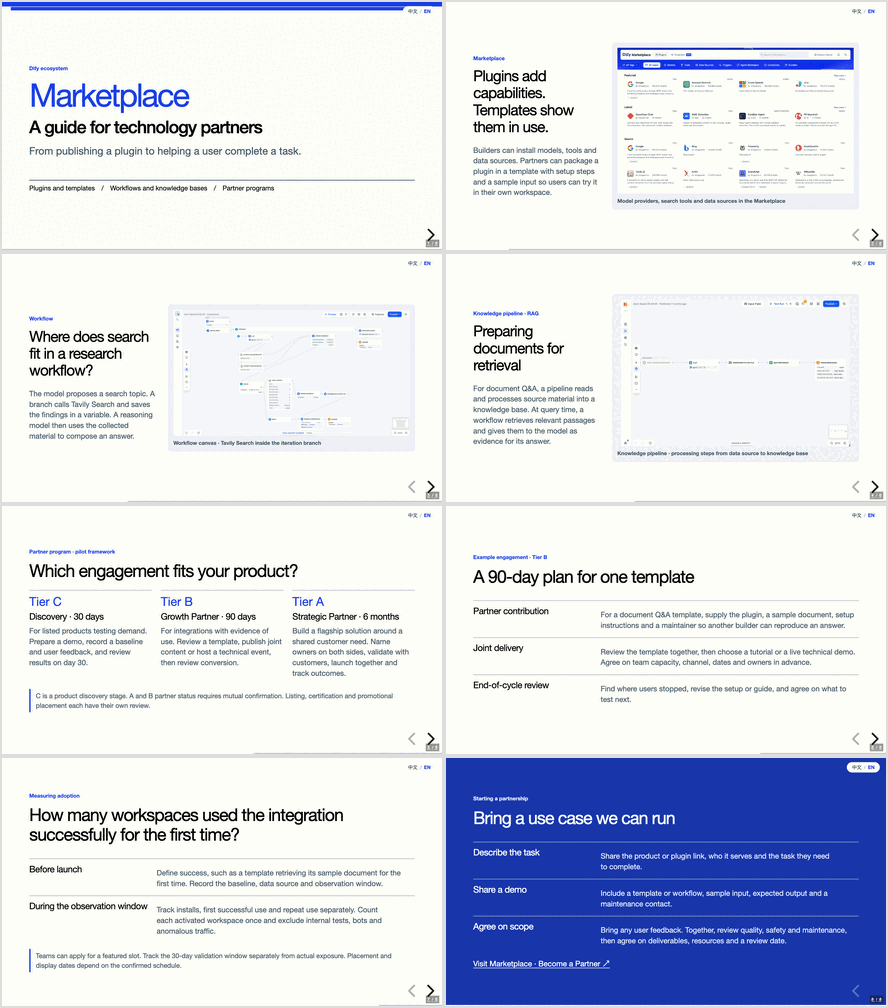
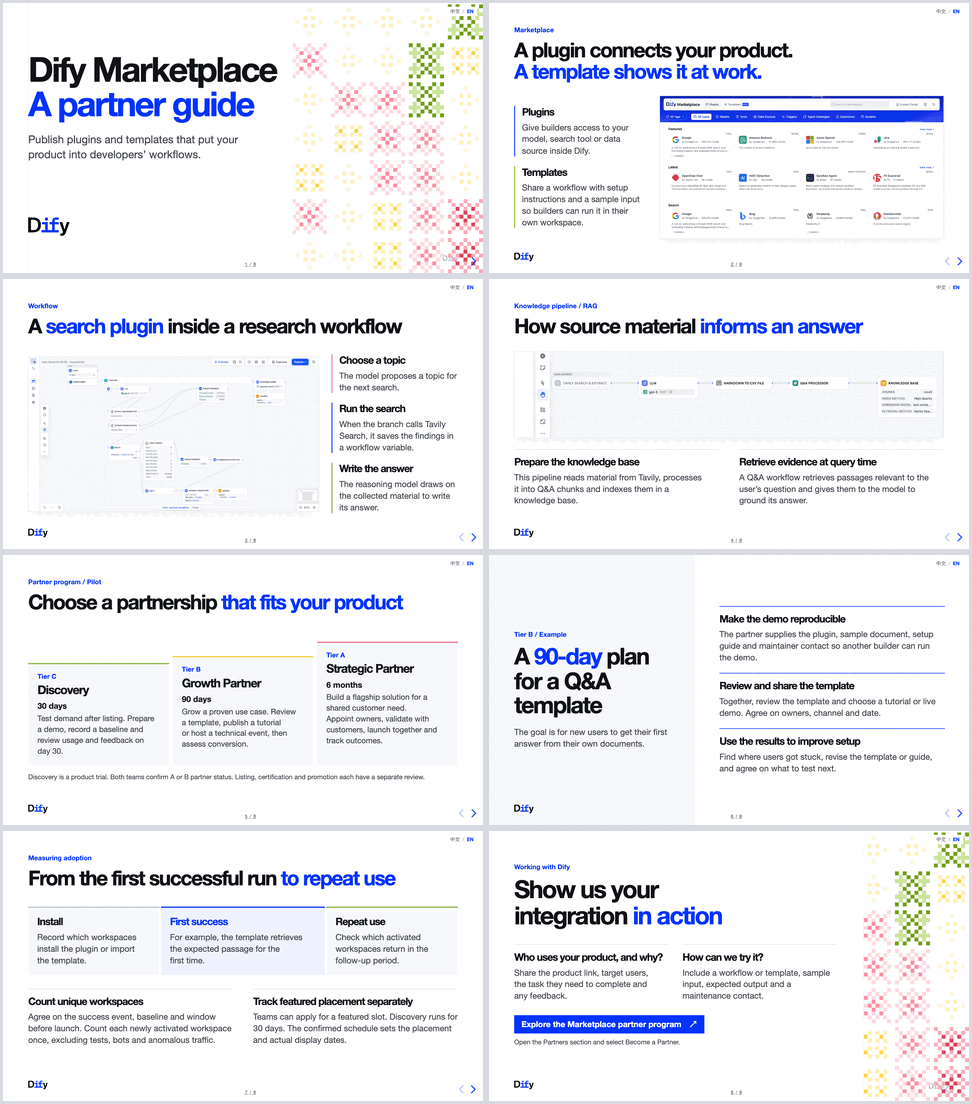
Restyle Marketplace guide to match the Singapore presentation

diff --git a/marketplace-partners/index_en.html b/marketplace-partners/index_en.html
@@ -12,37 +12,53 @@
 <body>
 <nav aria-label="Language"><a href="index.html" lang="zh-CN">中文</a><span>/</span><a href="index_en.html" lang="en" aria-current="page">EN</a></nav>
 <div class="reveal"><div class="slides">
-<section data-slide-id="cover" class="cover" data-background-color="#fafaf6">
-<article><p class="kicker">Dify ecosystem</p><h1>Marketplace</h1><h2>A guide for technology partners</h2><p class="lead">From publishing a plugin to helping a user complete a task.</p><footer>Plugins and templates　/　Workflows and knowledge bases　/　Partner programs</footer></article>
-<aside class="notes">For model, tool and data providers, and teams building solutions with Dify.</aside>
+<section data-slide-id="cover">
+  <article>
+<div class="weave" aria-hidden="true"></div><div class="cover-text"><h1>Dify Marketplace<br><em>A partner guide</em></h1><p>Publish plugins and templates that put your product into developers’ workflows.</p></div><img class="cover-logo" src="../assets/logo.svg" alt="Dify">
+  </article>
+  <aside class="notes">For model, tool and data providers, and teams building solutions with Dify.</aside>
 </section>
-<section data-slide-id="catalog" class="" data-background-color="#fafaf6">
-<article><div class="spread"><div><p class="kicker">Marketplace</p><h2>Plugins add capabilities. Templates show them in use.</h2><p class="">Builders can install models, tools and data sources. Partners can package a plugin in a template with setup steps and a sample input so users can try it in their own workspace.</p></div><figure><img src="../amd-x-dify-hackathon/assets/dify-product-marketplace.webp" alt="Model providers, search tools and data sources in the Marketplace"><figcaption>Model providers, search tools and data sources in the Marketplace</figcaption></figure></div></article>
-<aside class="notes">The AMD workshop shows how to install the Lemonade model provider from the Marketplace and connect it to a local inference server. A template example from the Dify × EdgeOne community showcase turns a child’s name, age and daily events into a bedtime story. Dify generates the story and EdgeOne Pages hosts the interface.</aside>
+<section data-slide-id="catalog">
+  <article>
+<header><p class="label">Marketplace</p><h2>A plugin connects your product.<br><em>A template shows it at work.</em></h2></header><div class="catalog-body"><div class="catalog-copy"><div class="item"><h3>Plugins</h3><p>Give builders access to your model, search tool or data source inside Dify.</p></div><div class="item"><h3>Templates</h3><p>Share a workflow with setup instructions and a sample input so builders can run it in their own workspace.</p></div></div><figure class="shot marketplace"><img src="../amd-x-dify-hackathon/assets/dify-product-marketplace.webp" alt="Dify Marketplace plugin catalog"></figure></div>
+  </article>
+  <aside class="notes">The AMD workshop shows how to install the Lemonade model provider from the Marketplace and connect it to a local inference server. A template example from the Dify × EdgeOne community showcase turns a child’s name, age and daily events into a bedtime story. Dify generates the story and EdgeOne Pages hosts the interface.</aside>
 </section>
-<section data-slide-id="workflow" class="" data-background-color="#fafaf6">
-<article><div class="spread"><div><p class="kicker">Workflow</p><h2>Where does search fit in a research workflow?</h2><p class="">The model proposes a search topic. A branch calls Tavily Search and saves the findings in a variable. A reasoning model then uses the collected material to compose an answer.</p></div><figure><img src="../amd-x-dify-hackathon/assets/dify-product-workflow.webp" alt="Workflow canvas · Tavily Search inside the iteration branch"><figcaption>Workflow canvas · Tavily Search inside the iteration branch</figcaption></figure></div></article>
-<aside class="notes">Trace the IF/ELSE branch through Tavily Search to the variable assignment. Show the input to the tool and where its output goes.</aside>
+<section data-slide-id="workflow">
+  <article>
+<header><p class="label">Workflow</p><h2>A <em>search plugin</em> inside a research workflow</h2></header><div class="workflow-body"><figure class="shot workflow"><img src="../amd-x-dify-hackathon/assets/dify-product-workflow.webp" alt="Workflow canvas with Tavily Search inside an iteration branch"></figure><div class="workflow-copy"><div class="item"><h3>Choose a topic</h3><p>The model proposes a topic for the next search.</p></div><div class="item"><h3>Run the search</h3><p>When the branch calls Tavily Search, it saves the findings in a workflow variable.</p></div><div class="item"><h3>Write the answer</h3><p>The reasoning model draws on the collected material to write its answer.</p></div></div></div>
+  </article>
+  <aside class="notes">Trace the IF/ELSE branch through Tavily Search to the variable assignment. Show the input to the tool and where its output goes.</aside>
 </section>
-<section data-slide-id="rag" class="" data-background-color="#fafaf6">
-<article><div class="spread"><div><p class="kicker">Knowledge pipeline · RAG</p><h2>Preparing documents for retrieval</h2><p class="">For document Q&A, a pipeline reads and processes source material into a knowledge base. At query time, a workflow retrieves relevant passages and gives them to the model as evidence for its answer.</p></div><figure><img src="../amd-x-dify-hackathon/assets/dify-product-knowledge.webp" alt="Knowledge pipeline · processing steps from data source to knowledge base"><figcaption>Knowledge pipeline · processing steps from data source to knowledge base</figcaption></figure></div></article>
-<aside class="notes">A data partner can supply one sample document and a test question, then check whether retrieval returns the supporting passage.</aside>
+<section data-slide-id="rag">
+  <article>
+<header><p class="label">Knowledge pipeline / RAG</p><h2>How source material <em>informs an answer</em></h2></header><figure class="shot knowledge"><img src="../amd-x-dify-hackathon/assets/dify-product-knowledge.webp" alt="Pipeline from the Tavily data source through the Q&A processor to the knowledge base"></figure><div class="duo"><div class="item"><h3>Prepare the knowledge base</h3><p>This pipeline reads material from Tavily, processes it into Q&A chunks and indexes them in a knowledge base.</p></div><div class="item"><h3>Retrieve evidence at query time</h3><p>A Q&A workflow retrieves passages relevant to the user’s question and gives them to the model to ground its answer.</p></div></div>
+  </article>
+  <aside class="notes">A data partner can supply one sample document and a test question, then check whether retrieval returns the supporting passage.</aside>
 </section>
-<section data-slide-id="tiers" class="" data-background-color="#fafaf6">
-<article><p class="kicker">Partner program · pilot framework</p><h2>Which engagement fits your product?</h2><div class="columns"><div><strong>Tier C</strong><h3>Discovery · 30 days</h3><p class="">For listed products testing demand. Prepare a demo, record a baseline and user feedback, and review results on day 30.</p></div><div><strong>Tier B</strong><h3>Growth Partner · 90 days</h3><p class="">For integrations with evidence of use. Review a template, publish joint content or host a technical event, then review conversion.</p></div><div><strong>Tier A</strong><h3>Strategic Partner · 6 months</h3><p class="">Build a flagship solution around a shared customer need. Name owners on both sides, validate with customers, launch together and track outcomes.</p></div></div><p class="note">C is a product discovery stage. A and B partner status requires mutual confirmation. Listing, certification and promotional placement each have their own review.</p></article>
-<aside class="notes">Quality, safety and maintenance ownership are prerequisites. Teams with existing results can be assessed directly for A or B.</aside>
+<section data-slide-id="tiers">
+  <article>
+<header><p class="label">Partner program / Pilot</p><h2>Choose a partnership <em>that fits your product</em></h2></header><div class="tiers"><div class="tier"><div class="tier-id">Tier C</div><h3>Discovery</h3><strong>30 days</strong><p>Test demand after listing. Prepare a demo, record a baseline and review usage and feedback on day 30.</p></div><div class="tier"><div class="tier-id">Tier B</div><h3>Growth Partner</h3><strong>90 days</strong><p>Grow a proven use case. Review a template, publish a tutorial or host a technical event, then assess conversion.</p></div><div class="tier"><div class="tier-id">Tier A</div><h3>Strategic Partner</h3><strong>6 months</strong><p>Build a flagship solution for a shared customer need. Appoint owners, validate with customers, launch together and track outcomes.</p></div></div><p class="fine">Discovery is a product trial. Both teams confirm A or B partner status. Listing, certification and promotion each have a separate review.</p>
+  </article>
+  <aside class="notes">Quality, safety and maintenance ownership are prerequisites. Teams with existing results can be assessed directly for A or B.</aside>
 </section>
-<section data-slide-id="package" class="" data-background-color="#fafaf6">
-<article><p class="kicker">Example engagement · Tier B</p><h2>A 90-day plan for one template</h2><div class="row"><h3>Partner contribution</h3><p class="">For a document Q&A template, supply the plugin, a sample document, setup instructions and a maintainer so another builder can reproduce an answer.</p></div><div class="row"><h3>Joint delivery</h3><p class="">Review the template together, then choose a tutorial or a live technical demo. Agree on team capacity, channel, dates and owners in advance.</p></div><div class="row"><h3>End-of-cycle review</h3><p class="">Find where users stopped, revise the setup or guide, and agree on what to test next.</p></div></article>
-<aside class="notes">This illustrates the pilot growth package. Technical support, promotion dates and resources are agreed for each project.</aside>
+<section data-slide-id="package">
+  <article>
+<div class="split"><div class="panel"><header><p class="label">Tier B / Example</p><h2>A <em>90-day</em> plan<br>for a Q&A template</h2></header><p>The goal is for new users to get their first answer from their own documents.</p></div><div class="steps"><div class="item"><h3>Make the demo reproducible</h3><p>The partner supplies the plugin, sample document, setup guide and maintainer contact so another builder can run the demo.</p></div><div class="item"><h3>Review and share the template</h3><p>Together, review the template and choose a tutorial or live demo. Agree on owners, channel and date.</p></div><div class="item"><h3>Use the results to improve setup</h3><p>Find where users got stuck, revise the template or guide, and agree on what to test next.</p></div></div></div>
+  </article>
+  <aside class="notes">This illustrates the pilot growth package. Technical support, promotion dates and resources are agreed for each project.</aside>
 </section>
-<section data-slide-id="adoption" class="" data-background-color="#fafaf6">
-<article><p class="kicker">Measuring adoption</p><h2>How many workspaces used the integration successfully for the first time?</h2><div class="row"><h3>Before launch</h3><p class="">Define success, such as a template retrieving its sample document for the first time. Record the baseline, data source and observation window.</p></div><div class="row"><h3>During the observation window</h3><p class="">Track installs, first successful use and repeat use separately. Count each activated workspace once and exclude internal tests, bots and anomalous traffic.</p></div><p class="note">Teams can apply for a featured slot. Track the 30-day validation window separately from actual exposure. Placement and display dates depend on the confirmed schedule.</p></article>
-<aside class="notes">For low-frequency enterprise integrations, review customer validation, proof-of-concept progress or deployment outcomes. State coverage and metric definitions when sharing results.</aside>
+<section data-slide-id="adoption">
+  <article>
+<header><p class="label">Measuring adoption</p><h2>From the first successful run <em>to repeat use</em></h2></header><div class="journey"><div class="item"><h3>Install</h3><p>Record which workspaces install the plugin or import the template.</p></div><div class="item"><h3>First success</h3><p>For example, the template retrieves the expected passage for the first time.</p></div><div class="item"><h3>Repeat use</h3><p>Check which activated workspaces return in the follow-up period.</p></div></div><div class="duo"><div class="item"><h3>Count unique workspaces</h3><p>Agree on the success event, baseline and window before launch. Count each newly activated workspace once, excluding tests, bots and anomalous traffic.</p></div><div class="item"><h3>Track featured placement separately</h3><p>Teams can apply for a featured slot. Discovery runs for 30 days. The confirmed schedule sets the placement and actual display dates.</p></div></div>
+  </article>
+  <aside class="notes">For low-frequency enterprise integrations, review customer validation, proof-of-concept progress or deployment outcomes. State coverage and metric definitions when sharing results.</aside>
 </section>
-<section data-slide-id="apply" class="dark" data-background-color="#1836aa">
-<article><p class="kicker">Starting a partnership</p><h2>Bring a use case we can run</h2><div class="row"><h3>Describe the task</h3><p class="">Share the product or plugin link, who it serves and the task they need to complete.</p></div><div class="row"><h3>Share a demo</h3><p class="">Include a template or workflow, sample input, expected output and a maintenance contact.</p></div><div class="row"><h3>Agree on scope</h3><p class="">Bring any user feedback. Together, review quality, safety and maintenance, then agree on deliverables, resources and a review date.</p></div><p class="action"><a href="https://marketplace.dify.ai/">Visit Marketplace · Become a Partner ↗</a></p></article>
-<aside class="notes">Use Become a Partner in the Partners section of the Marketplace.</aside>
+<section data-slide-id="apply">
+  <article>
+<div class="closing"><header><p class="label">Working with Dify</p><h2>Show us your integration <em>in action</em></h2></header><div class="closing-body"><div class="item"><h3>Who uses your product, and why?</h3><p>Share the product link, target users, the task they need to complete and any feedback.</p></div><div class="item"><h3>How can we try it?</h3><p>Include a workflow or template, sample input, expected output and a maintenance contact.</p></div></div><a class="cta" href="https://marketplace.dify.ai/">Explore the Marketplace partner program <span aria-hidden="true">↗</span></a><p class="fine">Open the Partners section and select Become a Partner.</p></div><div class="end-art" aria-hidden="true"></div>
+  </article>
+  <aside class="notes">Select Become a Partner in the Partners section of the Marketplace. Both teams review quality, safety and maintenance before agreeing on deliverables, resources and a review date.</aside>
 </section>
 </div></div>
 <script src="../agent-plugin-governance/assets/reveal/reveal.js"></script>
@@ -55,7 +71,7 @@
   }
   Reveal.on('ready', syncLanguageLinks);
   Reveal.on('slidechanged', syncLanguageLinks);
-  Reveal.initialize({ width: 1600, height: 900, margin: 0.04, center: false, hash: true, transition: 'fade', slideNumber: 'c/t', plugins: [RevealNotes] });
+  Reveal.initialize({ width: 1600, height: 900, margin: 0, center: false, hash: true, transition: 'fade', slideNumber: 'c/t', controls: true, progress: false, plugins: [RevealNotes] });
 </script>
 </body>
 </html>

diff --git a/marketplace-partners/index.html b/marketplace-partners/index.html
@@ -12,37 +12,53 @@
 <body>
 <nav aria-label="语言"><a href="index.html" lang="zh-CN" aria-current="page">中文</a><span>/</span><a href="index_en.html" lang="en">EN</a></nav>
 <div class="reveal"><div class="slides">
-<section data-slide-id="cover" class="cover" data-background-color="#fafaf6">
-<article><p class="kicker">Dify 技术生态</p><h1>Marketplace</h1><h2>技术伙伴合作方案</h2><p class="lead">从发布一个插件，到让用户用它完成一项工作。</p><footer>插件与模板　/　工作流与知识库　/　合作方式</footer></article>
-<aside class="notes">面向模型、工具、数据服务提供方及方案开发者。</aside>
+<section data-slide-id="cover">
+  <article>
+<div class="weave" aria-hidden="true"></div><div class="cover-text"><h1>Dify Marketplace<br><em>技术伙伴合作指南</em></h1><p>让开发者在 Dify 工作流中用上你的产品。</p></div><img class="cover-logo" src="../assets/logo.svg" alt="Dify">
+  </article>
+  <aside class="notes">面向模型、工具、数据服务提供方及方案开发者。</aside>
 </section>
-<section data-slide-id="catalog" class="" data-background-color="#fafaf6">
-<article><div class="spread"><div><p class="kicker">Marketplace</p><h2>插件提供能力，模板展示用法</h2><p class="">开发者可以安装模型、工具和数据源插件。伙伴可以把插件配进可导入的模板，附上配置步骤和示例输入，让用户跑通第一遍。</p></div><figure><img src="../amd-x-dify-hackathon/assets/dify-product-marketplace.webp" alt="Marketplace 中的模型提供方、搜索工具和数据源"><figcaption>Marketplace 中的模型提供方、搜索工具和数据源</figcaption></figure></div></article>
-<aside class="notes">例如，AMD 工作坊演示了从 Marketplace 安装 Lemonade 模型提供方，再连接本地推理服务的过程。 另一个模板示例来自 Dify × EdgeOne 社区案例征集。开发者提供孩子的名字、年龄和当天经历，Dify 生成睡前故事，EdgeOne Pages 提供访问页面。</aside>
+<section data-slide-id="catalog">
+  <article>
+<header><p class="label">Marketplace</p><h2>用插件接入产品，<br><em>用模板演示用法</em></h2></header><div class="catalog-body"><div class="catalog-copy"><div class="item"><h3>插件</h3><p>将模型、搜索工具或数据源接入 Dify，供开发者在自己的应用中调用。</p></div><div class="item"><h3>模板</h3><p>发布一个可导入的工作流，附上配置步骤和示例输入，让用户自己试一次。</p></div></div><figure class="shot marketplace"><img src="../amd-x-dify-hackathon/assets/dify-product-marketplace.webp" alt="Marketplace 插件目录"></figure></div>
+  </article>
+  <aside class="notes">例如，AMD 工作坊演示了从 Marketplace 安装 Lemonade 模型提供方，再连接本地推理服务的过程。 另一个模板示例来自 Dify × EdgeOne 社区案例征集。开发者提供孩子的名字、年龄和当天经历，Dify 生成睡前故事，EdgeOne Pages 提供访问页面。</aside>
 </section>
-<section data-slide-id="workflow" class="" data-background-color="#fafaf6">
-<article><div class="spread"><div><p class="kicker">Workflow</p><h2>搜索插件如何参与一次调研？</h2><p class="">图中的工作流用模型生成检索主题，按条件调用 Tavily Search，把结果写入变量，再由推理模型整理答案。用户可以沿节点查看每一步。</p></div><figure><img src="../amd-x-dify-hackathon/assets/dify-product-workflow.webp" alt="工作流画布 · 迭代分支内的 Tavily Search 节点"><figcaption>工作流画布 · 迭代分支内的 Tavily Search 节点</figcaption></figure></div></article>
-<aside class="notes">演示时从 IF/ELSE 沿线走到搜索和变量赋值，展示伙伴的工具接收什么、返回什么。</aside>
+<section data-slide-id="workflow">
+  <article>
+<header><p class="label">Workflow</p><h2>调研工作流里的<em>搜索插件</em></h2></header><div class="workflow-body"><figure class="shot workflow"><img src="../amd-x-dify-hackathon/assets/dify-product-workflow.webp" alt="工作流画布，迭代分支内包含 Tavily Search"></figure><div class="workflow-copy"><div class="item"><h3>生成检索主题</h3><p>模型根据任务生成下一轮要查的主题。</p></div><div class="item"><h3>调用 Tavily Search</h3><p>工作流按条件调用搜索插件，把结果存入变量。</p></div><div class="item"><h3>汇总调研结果</h3><p>推理模型读取收集到的材料，整理成回答。</p></div></div></div>
+  </article>
+  <aside class="notes">演示时从 IF/ELSE 沿线走到搜索和变量赋值，展示伙伴的工具接收什么、返回什么。</aside>
 </section>
-<section data-slide-id="rag" class="" data-background-color="#fafaf6">
-<article><div class="spread"><div><p class="kicker">知识流水线 · RAG</p><h2>让资料可以被检索</h2><p class="">以资料问答为例，流水线从数据源读取内容，将其处理后写入知识库。回答问题时，工作流检索相关片段，交给模型作为回答依据。</p></div><figure><img src="../amd-x-dify-hackathon/assets/dify-product-knowledge.webp" alt="知识流水线 · 从数据源到知识库的处理步骤"><figcaption>知识流水线 · 从数据源到知识库的处理步骤</figcaption></figure></div></article>
-<aside class="notes">数据伙伴可用一份样本文档和一个测试问题演示接入过程，检查检索结果是否包含原文依据。</aside>
+<section data-slide-id="rag">
+  <article>
+<header><p class="label">知识流水线 / RAG</p><h2>资料如何成为<em>回答的依据</em></h2></header><figure class="shot knowledge"><img src="../amd-x-dify-hackathon/assets/dify-product-knowledge.webp" alt="从 Tavily 数据源到问答处理器和知识库的节点链"></figure><div class="duo"><div class="item"><h3>先把资料存入知识库</h3><p>图中的流水线从 Tavily 读取资料，整理成问答片段，再写入知识库。</p></div><div class="item"><h3>提问时检索相关片段</h3><p>问答工作流检索与问题相关的片段，交给模型生成有依据的回答。</p></div></div>
+  </article>
+  <aside class="notes">数据伙伴可用一份样本文档和一个测试问题演示接入过程，检查检索结果是否包含原文依据。</aside>
 </section>
-<section data-slide-id="tiers" class="" data-background-color="#fafaf6">
-<article><p class="kicker">合作方案 · 试行框架</p><h2>哪种合作适合你的产品？</h2><div class="columns"><div><strong>Tier C</strong><h3>探索计划 · 30 天</h3><p class="">适合已通过上架审核、需要验证需求的产品。准备演示，记录基线与用户反馈，第 30 天复盘。</p></div><div><strong>Tier B</strong><h3>增长伙伴 · 90 天</h3><p class="">适合已有真实用户的集成。每轮评审一个模板，共做一篇内容或一场技术活动，再复盘转化。</p></div><div><strong>Tier A</strong><h3>战略共建伙伴 · 半年</h3><p class="">围绕共同客户需求共建一个旗舰方案。双方指定负责人，完成客户验证、联合发布和成果跟踪。</p></div></div><p class="note">C 是产品探索阶段。A、B 的伙伴身份须经双方确认，产品上架、集成认证和运营推荐各自审核。</p></article>
-<aside class="notes">各档均需先核验质量、安全与维护责任。已有成果的团队可直接参加 A 或 B 候选评估。</aside>
+<section data-slide-id="tiers">
+  <article>
+<header><p class="label">伙伴方案 / 试行</p><h2>按产品阶段<em>选择合作方式</em></h2></header><div class="tiers"><div class="tier"><div class="tier-id">Tier C</div><h3>探索计划</h3><strong>30 天</strong><p>上架后验证需求。准备演示并记录基线，第 30 天复盘使用情况与用户反馈。</p></div><div class="tier"><div class="tier-id">Tier B</div><h3>增长伙伴</h3><strong>90 天</strong><p>扩大已验证场景的使用。共同评审模板，发布教程或举办技术活动，再复盘转化。</p></div><div class="tier"><div class="tier-id">Tier A</div><h3>战略共建伙伴</h3><strong>半年</strong><p>围绕共同客户的需求打造旗舰方案。双方指定负责人，与客户验证后联合发布，持续跟踪成效。</p></div></div><p class="fine">C 档用于产品探索。A、B 档伙伴身份由双方确认。上架、认证和推荐分别审核。</p>
+  </article>
+  <aside class="notes">各档均需先核验质量、安全与维护责任。已有成果的团队可直接参加 A 或 B 候选评估。</aside>
 </section>
-<section data-slide-id="package" class="" data-background-color="#fafaf6">
-<article><p class="kicker">合作示例 · B 档增长包</p><h2>围绕一个模板，安排 90 天合作</h2><div class="row"><h3>伙伴准备</h3><p class="">例如，为知识问答模板提供插件、样本文档、设置教程和维护联系人，让另一位开发者能够复现答案。</p></div><div class="row"><h3>双方交付</h3><p class="">共同评审模板，再选择发布一篇教程或举办一场技术演示。提前确认可用人力、渠道、日期及各自负责人。</p></div><div class="row"><h3>期末复盘</h3><p class="">检查用户在哪一步停下，改进配置或教程，并约定下一轮验证的问题。</p></div></article>
-<aside class="notes">这是试行增长包的使用示例。技术支持、推广档期与投入以双方确认的项目记录为准。</aside>
+<section data-slide-id="package">
+  <article>
+<div class="split"><div class="panel"><header><p class="label">B 档 / 合作示例</p><h2>知识问答模板的<br><em>90 天增长计划</em></h2></header><p>目标是让新用户用自己的文档跑通第一次问答。</p></div><div class="steps"><div class="item"><h3>伙伴准备可复现的演示</h3><p>提供插件、样本文档、配置说明和维护联系人，让另一位开发者独立跑通。</p></div><div class="item"><h3>双方评审模板，安排推广</h3><p>共同评审后，选择发布一篇教程或举办一场演示，提前敲定负责人、渠道和日期。</p></div><div class="item"><h3>根据使用情况改进模板</h3><p>找出用户在哪一步遇到困难，改进模板或教程，约定下一轮要验证的问题。</p></div></div></div>
+  </article>
+  <aside class="notes">这是试行增长包的使用示例。技术支持、推广档期与投入以双方确认的项目记录为准。</aside>
 </section>
-<section data-slide-id="adoption" class="" data-background-color="#fafaf6">
-<article><p class="kicker">成效复核</p><h2>多少工作区首次成功运行了集成？</h2><div class="row"><h3>上线前</h3><p class="">约定成功事件，例如第一次用模板检索到样本文档。记录基线、数据来源和观察周期。</p></div><div class="row"><h3>观察期间</h3><p class="">分别记录安装、首次成功和持续使用。按工作区去重，排除内部测试、机器人和异常流量。</p></div><p class="note">推荐位按批次申请。30 天验证期与实际曝光天数分别记录，位置和起止日期以确认排期为准。</p></article>
-<aside class="notes">低频企业集成可跟踪客户验证、PoC 进度或部署结果。对外使用数据时写明口径与覆盖范围。</aside>
+<section data-slide-id="adoption">
+  <article>
+<header><p class="label">合作成效</p><h2>用户跑通一次后，<em>还会再用吗？</em></h2></header><div class="journey"><div class="item"><h3>安装</h3><p>记录安装或导入的工作区。</p></div><div class="item"><h3>首次成功</h3><p>例如，模板首次检索到样本文档中的目标段落。</p></div><div class="item"><h3>持续使用</h3><p>在后续观察期内，查看已激活的工作区是否再次使用。</p></div></div><div class="duo"><div class="item"><h3>以工作区为单位</h3><p>上线前约定成功事件、基线和观察周期。每个新增激活工作区只计一次，排除内部测试、机器人及异常流量。</p></div><div class="item"><h3>单独记录推荐档期</h3><p>可申请推荐位。30 天是探索验证周期，实际展示位置和天数以确认的排期为准。</p></div></div>
+  </article>
+  <aside class="notes">低频企业集成可跟踪客户验证、PoC 进度或部署结果。对外使用数据时写明口径与覆盖范围。</aside>
 </section>
-<section data-slide-id="apply" class="dark" data-background-color="#1836aa">
-<article><p class="kicker">发起合作</p><h2>带一个能跑通的用例来</h2><div class="row"><h3>说明场景</h3><p class="">提供产品或插件链接，说明谁会使用它、需要完成什么工作。</p></div><div class="row"><h3>提供演示</h3><p class="">附模板或工作流、样例输入与预期输出，以及维护联系人。</p></div><div class="row"><h3>商定合作</h3><p class="">带上已有用户反馈。双方核对质量、安全和维护条件，再确定交付物、资源及复盘日期。</p></div><p class="action"><a href="https://marketplace.dify.ai/">前往 Marketplace · Become a Partner ↗</a></p></article>
-<aside class="notes">在 Marketplace 的 Partners 区域进入 Become a Partner。</aside>
+<section data-slide-id="apply">
+  <article>
+<div class="closing"><header><p class="label">申请合作</p><h2>申请合作，先演示<em>一个真实场景</em></h2></header><div class="closing-body"><div class="item"><h3>你的产品帮谁解决什么问题？</h3><p>提供产品链接、目标用户、使用场景和已有反馈。</p></div><div class="item"><h3>我们怎样复现？</h3><p>附上工作流或模板、输入样例、预期输出，以及维护联系人。</p></div></div><a class="cta" href="https://marketplace.dify.ai/">前往 Marketplace 申请合作 <span aria-hidden="true">↗</span></a><p class="fine">进入 Partners 区域，选择 Become a Partner。</p></div><div class="end-art" aria-hidden="true"></div>
+  </article>
+  <aside class="notes">在 Marketplace 的 Partners 区域进入 Become a Partner。双方核对质量、安全与维护条件，再商定交付物、资源和复盘日期。</aside>
 </section>
 </div></div>
 <script src="../agent-plugin-governance/assets/reveal/reveal.js"></script>
@@ -55,7 +71,7 @@
   }
   Reveal.on('ready', syncLanguageLinks);
   Reveal.on('slidechanged', syncLanguageLinks);
-  Reveal.initialize({ width: 1600, height: 900, margin: 0.04, center: false, hash: true, transition: 'fade', slideNumber: 'c/t', plugins: [RevealNotes] });
+  Reveal.initialize({ width: 1600, height: 900, margin: 0, center: false, hash: true, transition: 'fade', slideNumber: 'c/t', controls: true, progress: false, plugins: [RevealNotes] });
 </script>
 </body>
 </html>

diff --git a/marketplace-partners/deck.css b/marketplace-partners/deck.css
@@ -1,39 +1,81 @@
-:root { --ink: #14263a; --blue: #183fe6; --paper: #fafaf6; --muted: #455a6a; }
-body { background: var(--paper); color: var(--ink); }
-.reveal, nav { font-family: Inter, "Helvetica Neue", "PingFang SC", sans-serif; }
+:root {
+  --blue: #0033ff;
+  --ink: #101114;
+  --text: #43474f;
+  --mist: #f6f7f9;
+  --rule: #e0e4ec;
+}
+body { background: white; color: var(--ink); }
+.reveal, nav { font-family: "Helvetica Neue", Arial, "PingFang SC", sans-serif; }
 .reveal .slides { text-align: left; }
-.reveal .slides section { height: 100%; box-sizing: border-box; padding: 62px 70px; }
-.reveal .slides section > article { height: 100%; display: flex; flex-direction: column; justify-content: center; }
+.reveal .slides section { height: 100%; padding: 0; box-sizing: border-box; }
+.reveal article { position: relative; height: 100%; padding: 76px 84px 78px; box-sizing: border-box; }
+.reveal article::after { content: ""; position: absolute; left: 84px; bottom: 39px; width: 65px; height: 30px; background: url(../assets/logo.svg) left center / contain no-repeat; }
 .reveal h1, .reveal h2, .reveal h3, .reveal p, .reveal figure { margin: 0; }
-.reveal h1 { font-size: 122px; line-height: 1.07; letter-spacing: -.055em; }
-.reveal h2 { font-size: 66px; line-height: 1.12; letter-spacing: -.04em; margin-bottom: 36px; }
-.reveal h3 { font-size: 34px; line-height: 1.18; letter-spacing: -.025em; }
-.reveal p { font-size: 28px; line-height: 1.43; color: var(--muted); text-wrap: pretty; }
-.reveal .kicker, .reveal figcaption { font-size: 20px; line-height: 1.4; font-weight: 600; }
-.reveal .kicker { color: var(--blue); margin-bottom: 22px; }
-.reveal .spread { display: grid; grid-template-columns: 34fr 66fr; align-items: center; gap: 46px; }
-.reveal .spread h2 { font-size: 57px; }
-.reveal figure { background: #edf0f6; padding: 18px; border: 1px solid #d6deea; border-radius: 12px; }
-.reveal figure img { width: 100%; max-height: 555px; object-fit: contain; display: block; }
-.reveal figcaption { padding-top: 12px; color: #47596d; }
-.reveal .lead { font-size: 39px; margin: 26px 0 0; max-width: 1090px; }
-.reveal .cover { border-top: 13px solid var(--blue); }
-.reveal .cover h1 { color: var(--blue); }
-.reveal .cover h2 { margin: 18px 0 0; font-weight: 500; }
-.reveal .cover footer { margin-top: 82px; padding-top: 15px; border-top: 2px solid var(--ink); font-size: 25px; }
-.reveal .columns { display: grid; grid-template-columns: repeat(3,1fr); gap: 35px; }
-.reveal .columns > div, .reveal .row { border-top: 2px solid #aab7c2; padding-top: 18px; }
-.reveal .columns strong { display:block; color: var(--blue); font-size: 46px; margin-bottom: 14px; }
-.reveal h3 + p { margin-top: 14px; }
-.reveal .row { display: grid; grid-template-columns: 31% 1fr; gap: 30px; margin-top: 18px; padding-bottom: 8px; }
-.reveal .note { border-left: 5px solid var(--blue); margin-top: 40px; padding: 8px 20px; font-size: 25px; }
-.reveal .dark { color: white; }
-.reveal .dark p, .reveal .dark .kicker { color: #e0eaff; }
-.reveal .dark a { color: white; }
-.reveal .action { margin-top: 38px; font-size: 29px; }
-.reveal a { color: var(--blue); text-underline-offset: .16em; }
-nav { position: fixed; top: 12px; right: 18px; z-index: 10; background: var(--paper); border-radius: 30px; padding: 8px 15px; font-size: 14px; }
-nav a { color: var(--ink); text-decoration: none; }
+.reveal h1, .reveal h2, .reveal h3 { color: var(--ink); font-weight: 630; letter-spacing: -.052em; text-wrap: balance; }
+.reveal h1 { font-size: 114px; line-height: 1.02; }
+.reveal h2 { font-size: 68px; line-height: 1.06; }
+.reveal h3 { font-size: 34px; line-height: 1.16; }
+.reveal em { color: var(--blue); font-style: normal; }
+.reveal p { color: var(--text); font-size: 28px; line-height: 1.38; text-wrap: pretty; }
+.reveal .label, .reveal .tier-id { color: var(--blue); font-size: 22px; line-height: 1.2; font-weight: 650; letter-spacing: .005em; }
+.reveal .label { margin-bottom: 18px; }
+.reveal h3 + p { margin-top: 13px; }
+.reveal .fine { font-size: 22px; line-height: 1.35; }
+:lang(zh-CN) h1, :lang(zh-CN) h2, :lang(zh-CN) h3 { letter-spacing: -.045em; }
+.reveal .shot { margin: 0; overflow: hidden; background: var(--mist); border: 1px solid var(--rule); box-shadow: 0 15px 38px #1621380e; }
+.reveal .shot img { display: block; width: 100%; height: 100%; object-fit: cover; }
+.reveal [data-slide-id=cover] article { background: linear-gradient(90deg, transparent 83px, var(--rule) 84px, transparent 85px), linear-gradient(0deg, transparent 79px, var(--rule) 80px, transparent 81px); }
+.reveal [data-slide-id=cover] article::after { display: none; }
+.reveal .weave { position: absolute; inset: 0 0 0 auto; width: 39.6%; background: url(assets/singapore-weave.png) right center / cover no-repeat; }
+.reveal .cover-text { position: relative; padding-top: 85px; max-width: 960px; }
+.reveal .cover-text p { margin-top: 37px; max-width: 790px; font-size: 36px; }
+.reveal .cover-logo { position: absolute; bottom: 124px; left: 84px; width: 138px; }
+.reveal .catalog-body, .reveal .workflow-body { display: grid; align-items: center; gap: 64px; margin-top: 44px; }
+.reveal .catalog-body { grid-template-columns: .77fr 1.73fr; }
+.reveal .catalog-copy .item, .reveal .workflow-copy .item { border-left: 3px solid var(--blue); padding-left: 23px; }
+.reveal .item + .item { margin-top: 32px; }
+.reveal .catalog-copy .item + .item { border-color: #84b82f; }
+.reveal .marketplace { height: 475px; }
+.reveal .marketplace img { object-position: top; }
+.reveal .workflow-body { grid-template-columns: 2.3fr 1fr; margin-top: 58px; gap: 42px; }
+.reveal .workflow { aspect-ratio: 2804 / 1492; }
+.reveal .workflow-copy .item:first-child { border-color: #ef6b88; }
+.reveal .workflow-copy .item:last-child { border-color: #77a92e; }
+.reveal .knowledge { margin: 49px 0 38px; height: 286px; }
+.reveal .knowledge img { object-position: center 46%; }
+.reveal .duo { display: grid; grid-template-columns: 1fr 1fr; gap: 68px; }
+.reveal .duo .item { border-top: 2px solid var(--rule); padding-top: 20px; margin: 0; }
+.reveal .tiers { display: grid; grid-template-columns: repeat(3, 1fr); align-items: end; gap: 12px; height: 470px; margin: 38px 0 25px; }
+.reveal .tier { padding: 27px 31px 30px; box-sizing: border-box; background: var(--mist); border-top: 4px solid #8dbb3f; min-height: 315px; }
+.reveal .tier:nth-child(2) { min-height: 363px; border-color: #efbf3e; }
+.reveal .tier:nth-child(3) { min-height: 411px; border-color: #ec7689; }
+.reveal .tier h3 { margin: 8px 0 18px; font-size: 40px; }
+.reveal .tier strong { color: var(--ink); font-size: 27px; font-weight: 600; }
+.reveal .tier p { margin-top: 10px; font-size: 26px; }
+.reveal [data-slide-id=package] article { padding: 0; }
+.reveal .split { display: grid; grid-template-columns: 43% 57%; height: 100%; }
+.reveal .panel { padding: 0 60px 0 84px; background: var(--mist); display: flex; flex-direction: column; justify-content: center; }
+.reveal .panel h2 { font-size: 77px; }
+.reveal .panel > p { margin-top: 30px; }
+.reveal .steps { padding: 55px 80px; display: flex; justify-content: center; flex-direction: column; }
+.reveal .steps .item { border-top: 2px solid var(--blue); padding-top: 21px; }
+.reveal .journey { display: grid; grid-template-columns: 1fr 1.25fr 1fr; gap: 5px; margin: 60px 0 45px; }
+.reveal .journey .item { position: relative; margin: 0; border-top: 4px solid #bac2ce; padding: 26px 30px 30px; background: var(--mist); }
+.reveal .journey .item:nth-child(2) { background: #eef2ff; border-color: var(--blue); }
+.reveal .journey .item:nth-child(2) h3 { color: var(--blue); }
+.reveal .journey .item:last-child { border-color: #86ae44; }
+.reveal .closing { position: relative; z-index: 1; width: 75%; padding-top: 30px; }
+.reveal .closing h2 { font-size: 82px; }
+.reveal .closing-body { display: grid; grid-template-columns: 1fr 1fr; gap: 48px; margin: 54px 0 45px; }
+.reveal .closing-body .item { margin: 0; padding-top: 20px; border-top: 2px solid var(--rule); }
+.reveal .end-art { position: absolute; right: 0; top: 0; bottom: 0; width: 22%; background: url(assets/singapore-weave.png) right center / auto 100% no-repeat; }
+.reveal .cta { display: inline-block; background: var(--blue); color: white; padding: 17px 24px; font-size: 27px; text-decoration: none; font-weight: 550; }
+.reveal .cta span { margin-left: 18px; }
+.reveal .cta + .fine { margin-top: 14px; }
+nav { position: fixed; z-index: 20; top: 10px; right: 15px; background: #fff; padding: 6px 10px; font-size: 13px; }
+nav a { color: #56606e; text-decoration: none; }
 nav [aria-current] { color: var(--blue); font-weight: 700; }
-nav span { margin: 0 7px; color: #a0aab3; }
-.reveal .controls { color: var(--blue); }
+nav span { margin: 0 7px; color: #a5abb5; }
+.reveal .controls { color: var(--blue); font-size: 6px; }
+.reveal .slide-number { background: white; color: #59616d; left: 50%; right: auto; bottom: 12px; }

diff --git a/marketplace-partners/source-map.md b/marketplace-partners/source-map.md
@@ -14,3 +14,5 @@ The primary source is the November 4, 2026 integrated pilot proposal, *Dify Mark
 The [catalog image](../amd-x-dify-hackathon/assets/dify-product-marketplace.webp) and both canvas images are Dify product screenshots from the repository’s AMD workshop. They illustrate the interfaces at capture time.
 
 Historical context reviewed includes the author's plugin governance retrospective (September 20), template review proposal (October 26), plugin maintenance priorities (August), and Dify × EdgeOne community case collection (June). These informed the emphasis on maintainers, reproducible examples and follow-up after launch.
+
+The pixel pattern on the opening and closing slides is a crop of the [Singapore deck’s section artwork](../agent-systems-sg/assets/assets/4.png). The product views on slides 2 and 4 are cropped to emphasize the catalog and pipeline nodes respectively.
